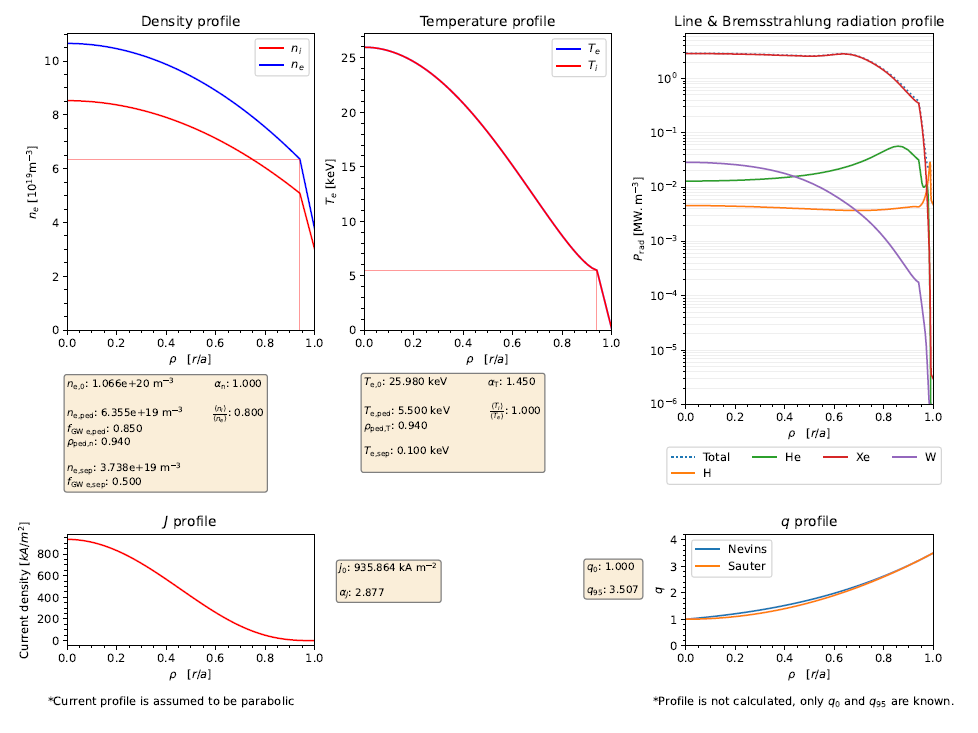
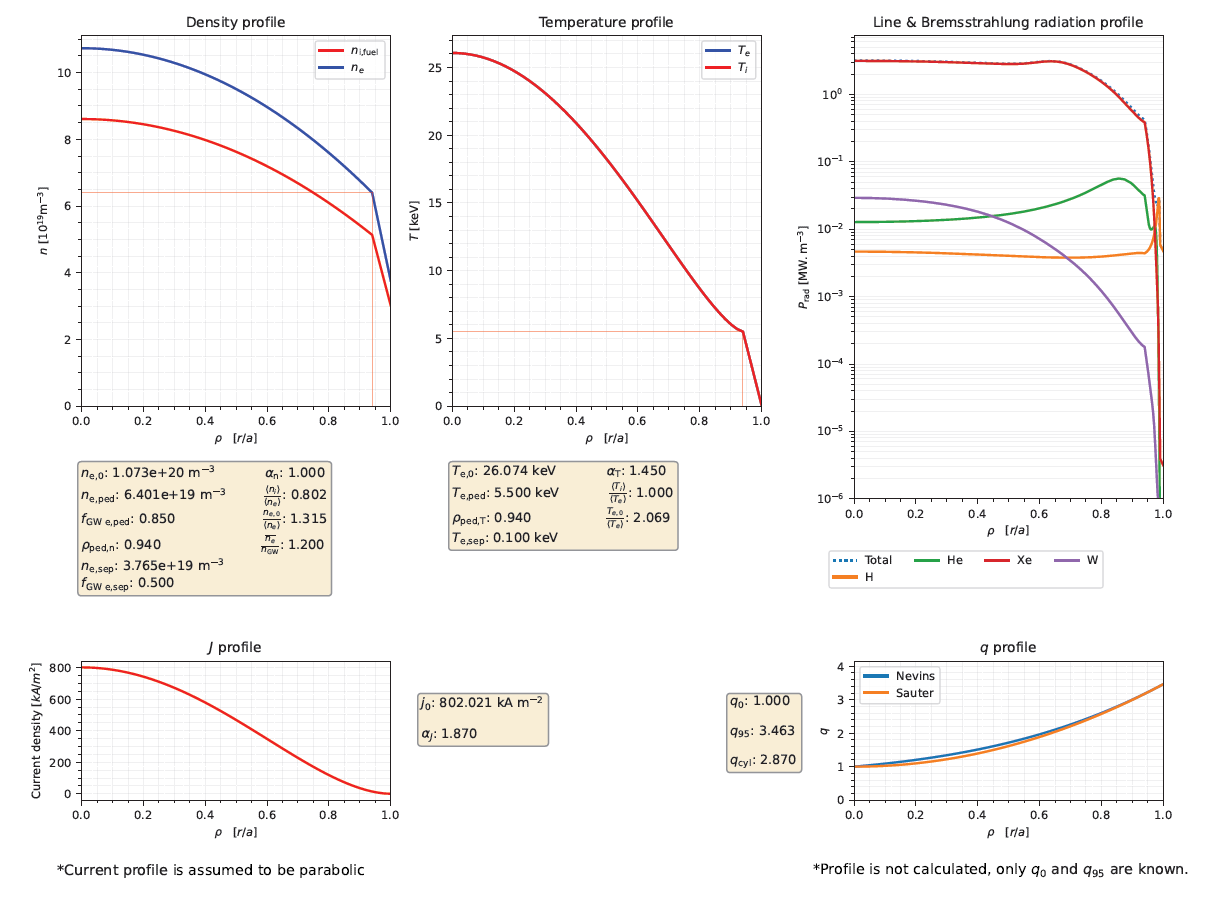
🔄 Update utilities documentation to reflect changes in PROCESS PDF summary and enhance plotting functions with additional parameters for density, temperature, and q profiles.

diff --git a/process/io/plot_proc.py b/process/io/plot_proc.py
@@ -1494,7 +1494,7 @@ def arc_fill(axis, r1, r2, color="pink"):
     axis.add_patch(patch)
 
 
-def plot_n_profiles(prof, demo_ranges):
+def plot_n_profiles(prof, demo_ranges, mfile_data, scan):
     """Function to plot density profile
     Arguments:
       prof --> axis object to add plot to
@@ -1566,8 +1566,12 @@ def plot_n_profiles(prof, demo_ranges):
             rf"$n_{{\text{{e,ped}}}}$: {neped:.3e} m$^{{-3}}$"
             r"$ \hspace{3} \frac{\langle n_i \rangle}{\langle n_e \rangle}$: "
             f"{nd_fuel_ions / dene:.3f}",
-            rf"$f_{{\text{{GW e,ped}}}}$: {fgwped_out:.3f}",
-            rf"$\rho_{{\text{{ped,n}}}}$: {rhopedn:.3f}",
+            rf"$f_{{\text{{GW e,ped}}}}$: {fgwped_out:.3f}"
+            r"$ \hspace{7} \frac{n_{e,0}}{\langle n_e \rangle}$: "
+            f"{ne0 / dene:.3f}",
+            rf"$\rho_{{\text{{ped,n}}}}$: {rhopedn:.3f}"
+            r"$ \hspace{8} \frac{\overline{n_{e}}}{n_{\text{GW}}}$: "
+            f"{mfile_data.data['dnla'].get_scan(scan) / mfile_data.data['dlimit(7)'].get_scan(scan):.3f}",
             rf"$n_{{\text{{e,sep}}}}$: {nesep:.3e} m$^{{-3}}$",
             rf"$f_{{\text{{GW e,sep}}}}$: {fgwsep_out:.3f}",
         ))
@@ -1582,6 +1586,7 @@ def plot_n_profiles(prof, demo_ranges):
             verticalalignment="top",
             bbox=props_density,
         )
+        prof.grid(True, which="both", linestyle="--", linewidth=0.5, alpha=0.2)
 
     # ---
 
@@ -1627,9 +1632,10 @@ def plot_jprofile(prof):
         ha="left",
         transform=plt.gcf().transFigure,
     )
+    prof.grid(True, which="both", linestyle="--", linewidth=0.5, alpha=0.2)
 
 
-def plot_t_profiles(prof, demo_ranges):
+def plot_t_profiles(prof, demo_ranges, mfile_data, scan):
     """Function to plot temperature profile
     Arguments:
       prof --> axis object to add plot to
@@ -1684,6 +1690,7 @@ def plot_t_profiles(prof, demo_ranges):
         )
         prof.minorticks_on()
 
+    te = mfile_data.data["te"].get_scan(scan)
     # Add text box with temperature profile parameters
     textstr_temperature = "\n".join((
         rf"$T_{{\text{{e,0}}}}$: {te0:.3f} keV"
@@ -1691,7 +1698,9 @@ def plot_t_profiles(prof, demo_ranges):
         rf"$T_{{\text{{e,ped}}}}$: {teped:.3f} keV"
         r"$ \hspace{4} \frac{\langle T_i \rangle}{\langle T_e \rangle}$: "
         f"{tratio:.3f}",
-        rf"$\rho_{{\text{{ped,T}}}}$: {rhopedt:.3f}",
+        rf"$\rho_{{\text{{ped,T}}}}$: {rhopedt:.3f}"
+        r"$ \hspace{6} \frac{T_{e,0}}{\langle T_e \rangle}$: "
+        f"{te0 / te:.3f}",
         rf"$T_{{\text{{e,sep}}}}$: {tesep:.3f} keV",
     ))
 
@@ -1705,10 +1714,11 @@ def plot_t_profiles(prof, demo_ranges):
         verticalalignment="top",
         bbox=props_temperature,
     )
+    prof.grid(True, which="both", linestyle="--", linewidth=0.5, alpha=0.2)
     # ---
 
 
-def plot_qprofile(prof, demo_ranges):
+def plot_qprofile(prof, demo_ranges, mfile_data, scan):
     """Function to plot q profile, formula taken from Nevins bootstrap model.
 
     Arguments:
@@ -1746,11 +1756,13 @@ def plot_qprofile(prof, demo_ranges):
         ha="left",
         transform=plt.gcf().transFigure,
     )
+    prof.grid(True, which="both", linestyle="--", linewidth=0.5, alpha=0.2)
     # ---
 
     textstr_q = "\n".join((
         r"$q_0$: " + f"{q0:.3f}\n",
-        r"$q_{95}$: " + f"{q95:.3f}",
+        r"$q_{95}$: " + f"{q95:.3f}\n",
+        r"$q_{\text{cyl}}$: " + f"{mfile_data.data['qstar'].get_scan(scan):.3f}",
     ))
 
     props_q = {"boxstyle": "round", "facecolor": "wheat", "alpha": 0.5}
@@ -4401,12 +4413,12 @@ def main_plot(
     # Plot density profiles
     plot_8 = fig3.add_subplot(231)  # , aspect= 0.05)
     plot_8.set_position([0.075, 0.55, 0.25, 0.4])
-    plot_n_profiles(plot_8, demo_ranges)
+    plot_n_profiles(plot_8, demo_ranges, m_file_data, scan)
 
     # Plot temperature profiles
     plot_9 = fig3.add_subplot(232)
     plot_9.set_position([0.375, 0.55, 0.25, 0.4])
-    plot_t_profiles(plot_9, demo_ranges)
+    plot_t_profiles(plot_9, demo_ranges, m_file_data, scan)
 
     # Plot impurity profiles
     plot_10 = fig3.add_subplot(233)
@@ -4421,7 +4433,7 @@ def main_plot(
     # Plot q profile
     plot_12 = fig3.add_subplot(4, 3, 12)
     plot_12.set_position([0.7, 0.125, 0.25, 0.15])
-    plot_qprofile(plot_12, demo_ranges)
+    plot_qprofile(plot_12, demo_ranges, m_file_data, scan)
 
     # Plot poloidal cross-section
     plot_13 = fig4.add_subplot(121, aspect="equal")

diff --git a/documentation/proc-pages/io/utilities.md b/documentation/proc-pages/io/utilities.md
@@ -65,7 +65,7 @@ A `.csv` file will be saved to the directory of the input file.
 
 
 
-## PROCESS 8-Page PDF Summary
+## PROCESS 9-Page PDF Summary
 
 > `process/io/plot_proc.py`
 
